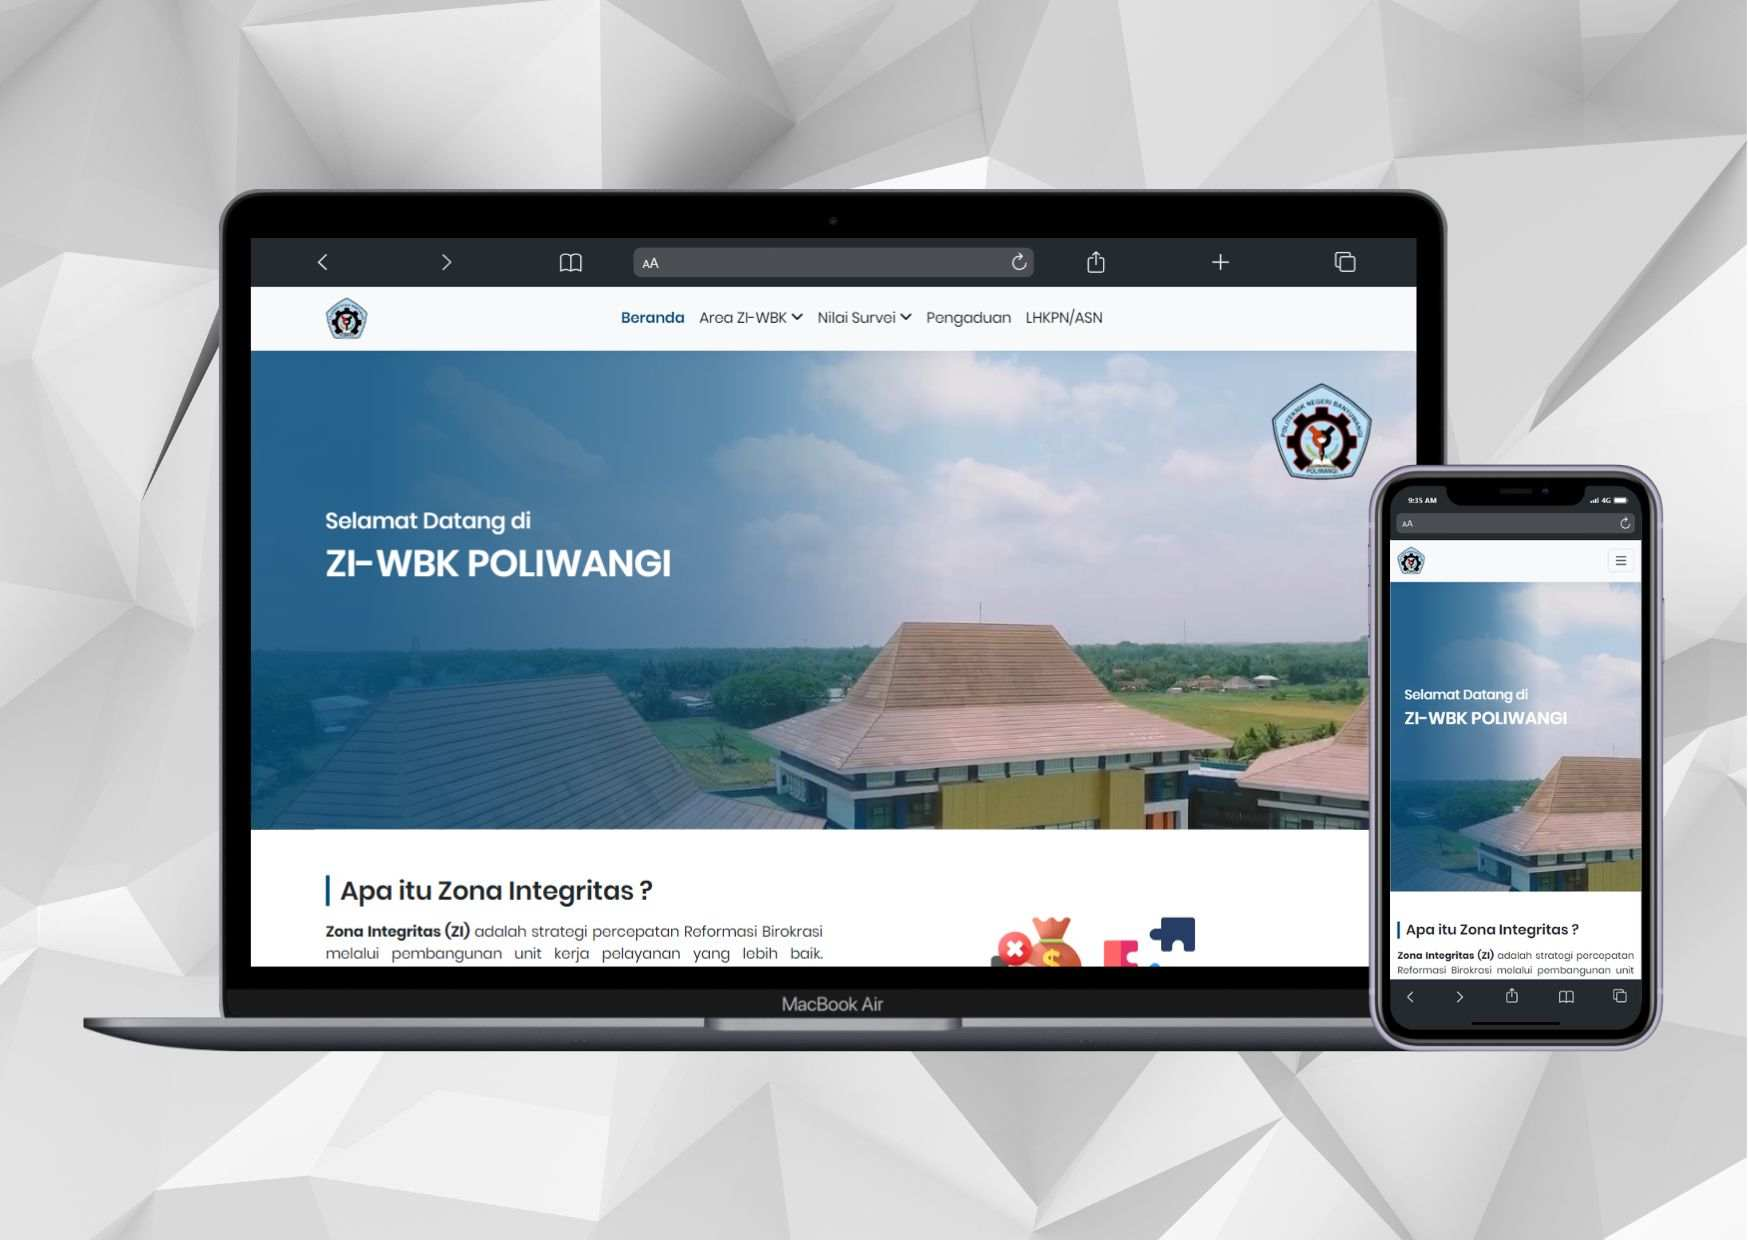
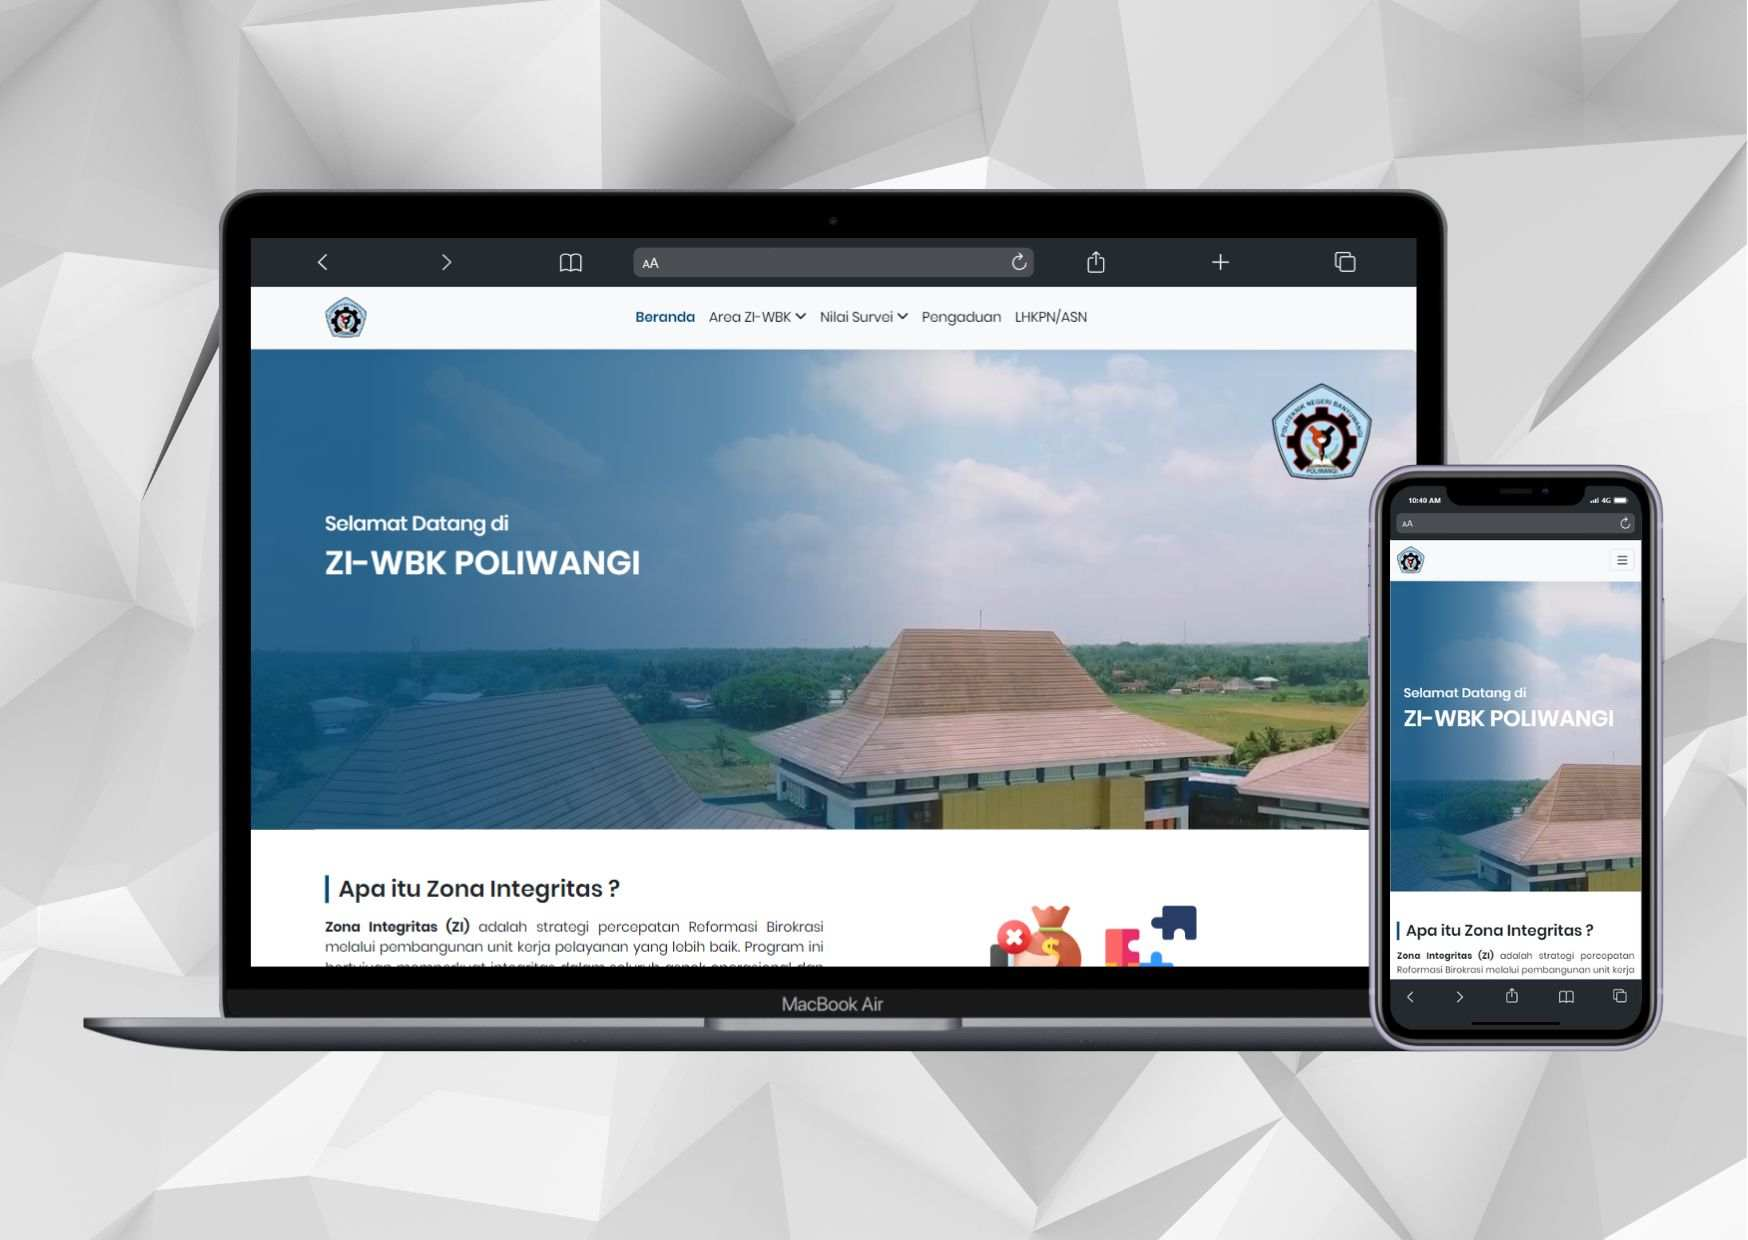
update: portofolio zi wbk poliwangi

diff --git a/index.html b/index.html
@@ -275,7 +275,7 @@
                     ]
                 },
                 {
-                    id: 5,
+                    id: 4,
                     name: 'Alishom Baitullah Journey',
                     slug: 'alishom-baitullah-journey',
                     img: 'alishom-baitullah-journey.png',
@@ -284,7 +284,7 @@
                     ]
                 },
                 {
-                    id: 6,
+                    id: 5,
                     name: 'Mojo Spirit Festival',
                     slug: 'mojo-spirit-festival',
                     img: 'mojo-spirit-festival.png',
@@ -294,7 +294,7 @@
                     ]
                 },
                 {
-                    id: 7,
+                    id: 6,
                     name: 'Material & Metalurgi ITS',
                     slug: 'material-metalurgi-its',
                     img: 'material-metalurgi-its.png',
@@ -303,7 +303,7 @@
                     ]
                 },
                 {
-                    id: 8,
+                    id: 7,
                     name: 'Numrealty Property',
                     slug: 'numrealty',
                     img: 'num-realty.png',
@@ -312,7 +312,7 @@
                     ]
                 },
                 {
-                    id: 9,
+                    id: 8,
                     name: 'Rumaindo Property',
                     slug: 'rumaindo',
                     img: 'rumaindo.png',
@@ -321,13 +321,14 @@
                     ]
                 },
                 {
-                    id: 10,
+                    id: 9,
                     name: 'ZI-WBK Poliwangi',
                     slug: 'zi-wbk-poliwangi',
                     img: 'poliwangi.png',
                     preview: [
                         'poliwangi_1.jpg',
                         'poliwangi_2.jpg',
+                        'poliwangi_3.jpg',
                     ]
                 },
             ].sort( () => .5 - Math.random() );
